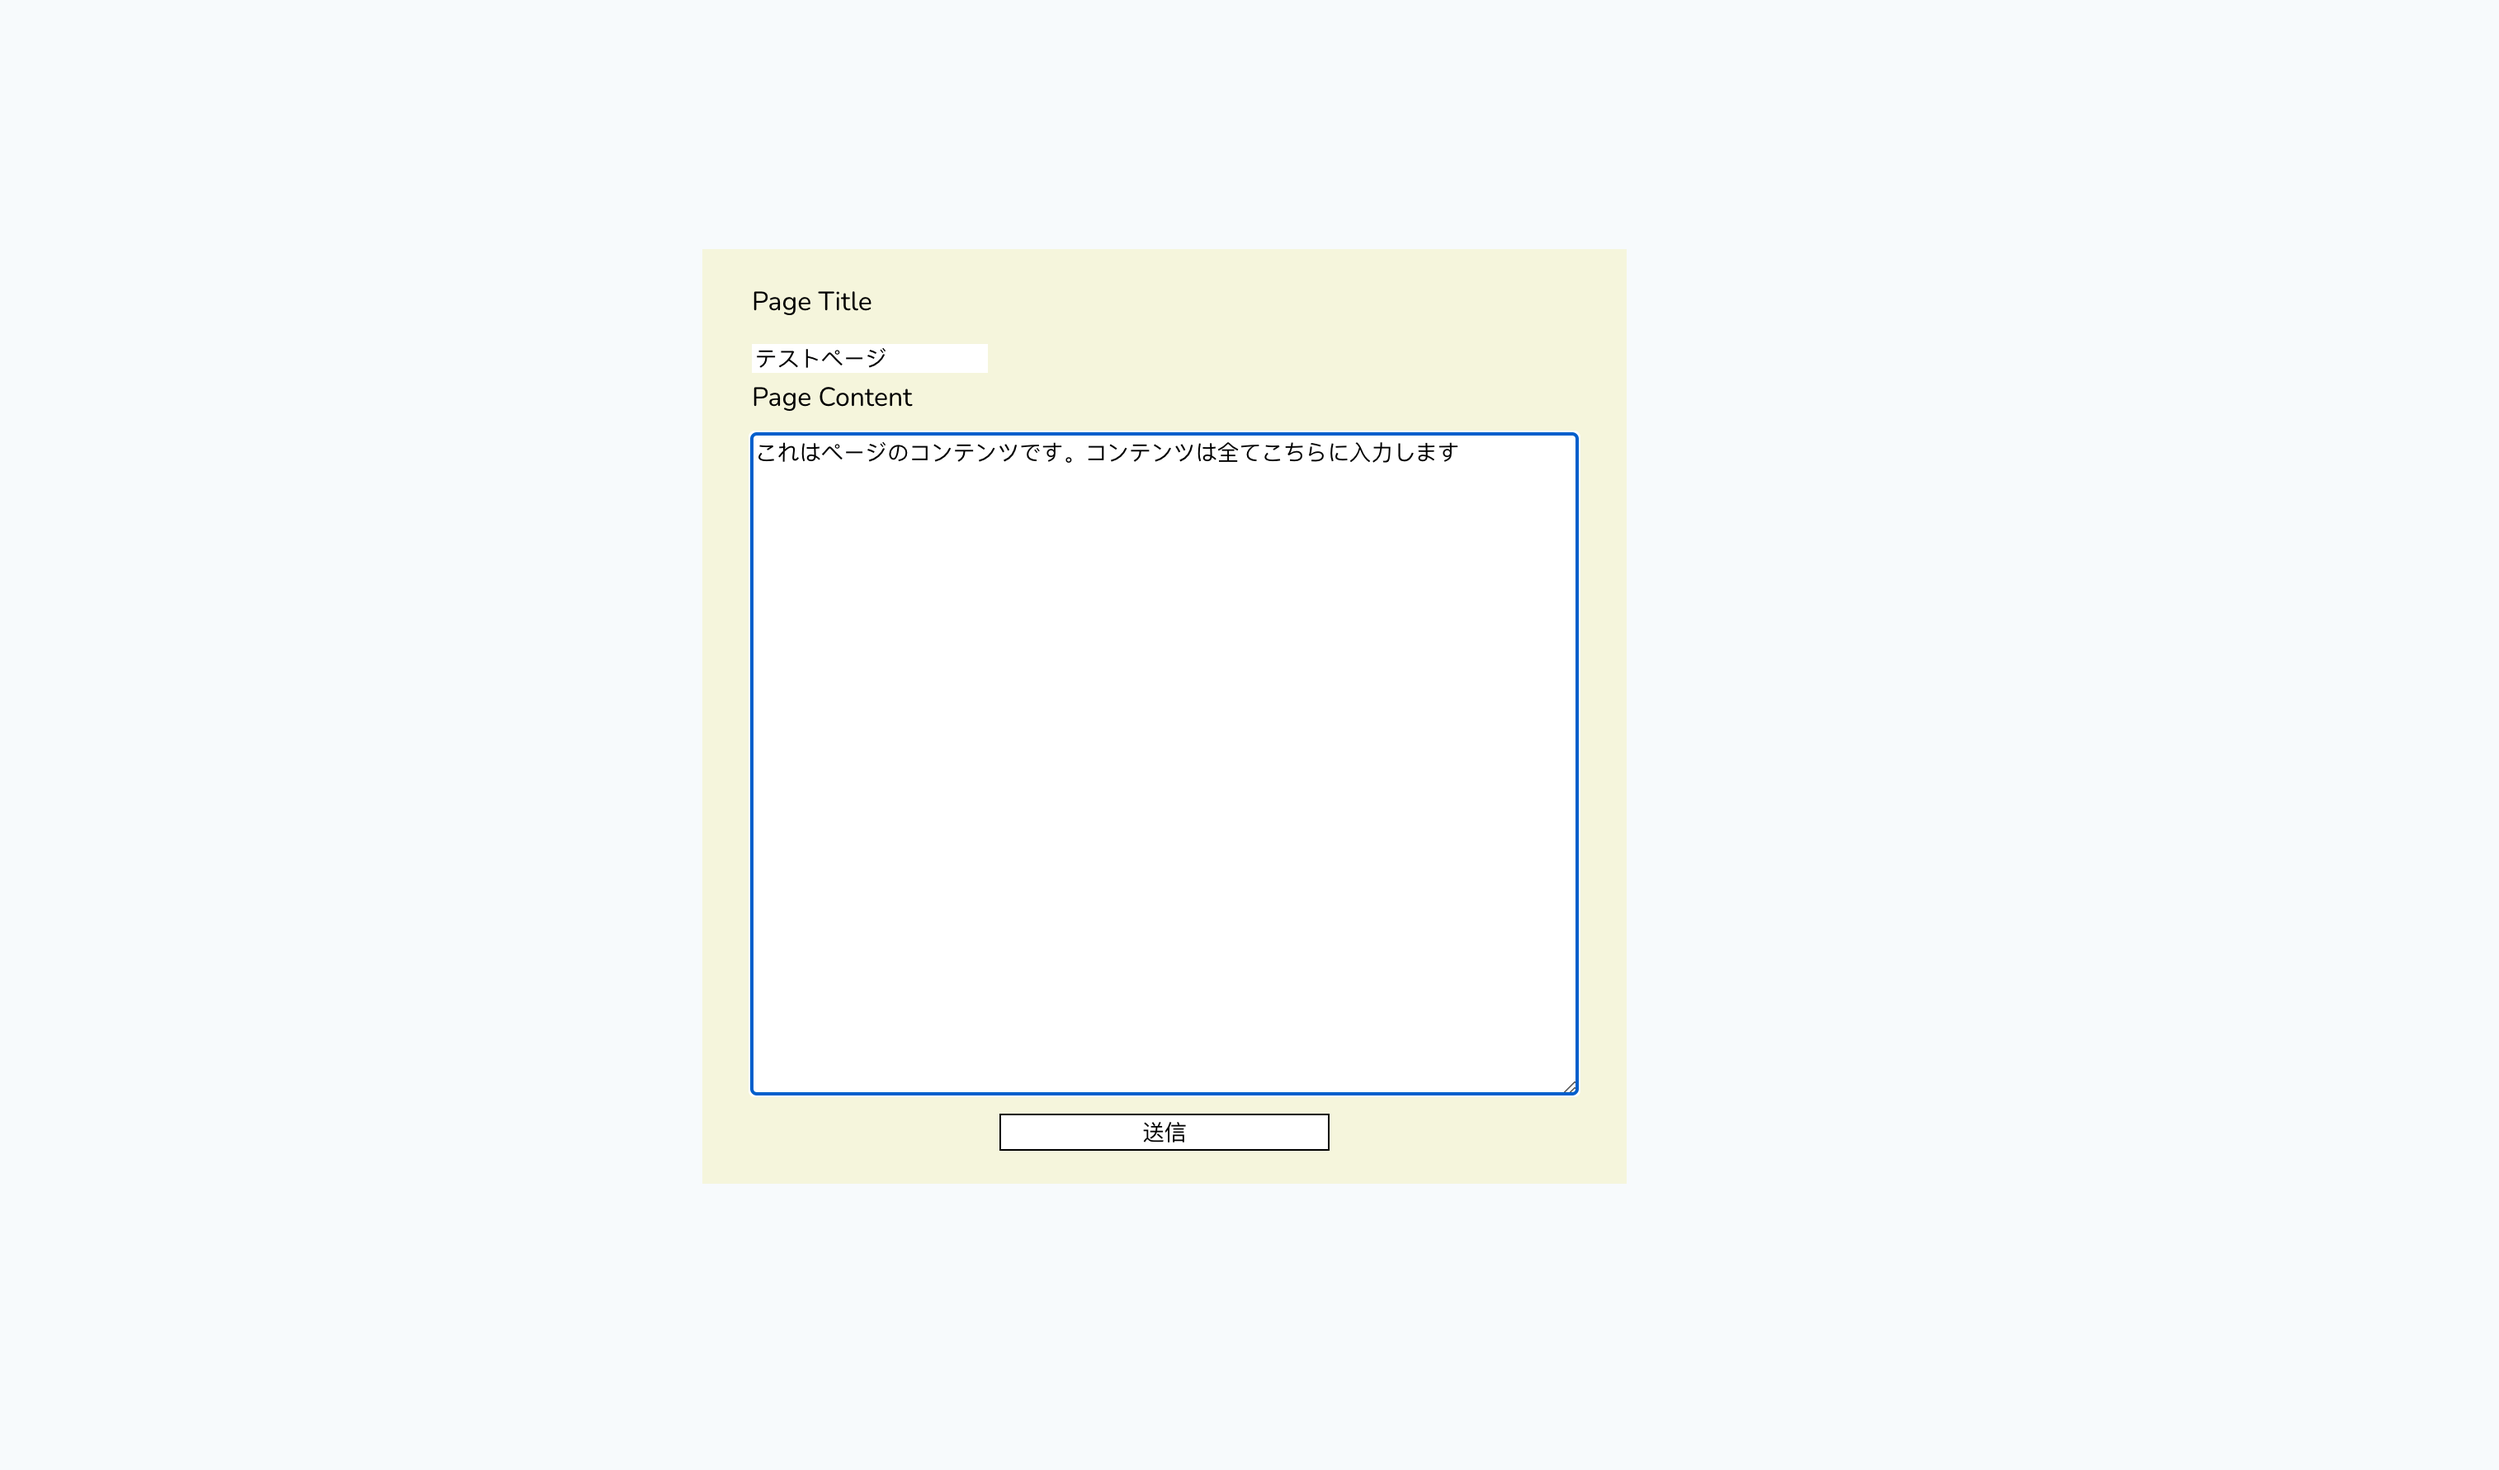
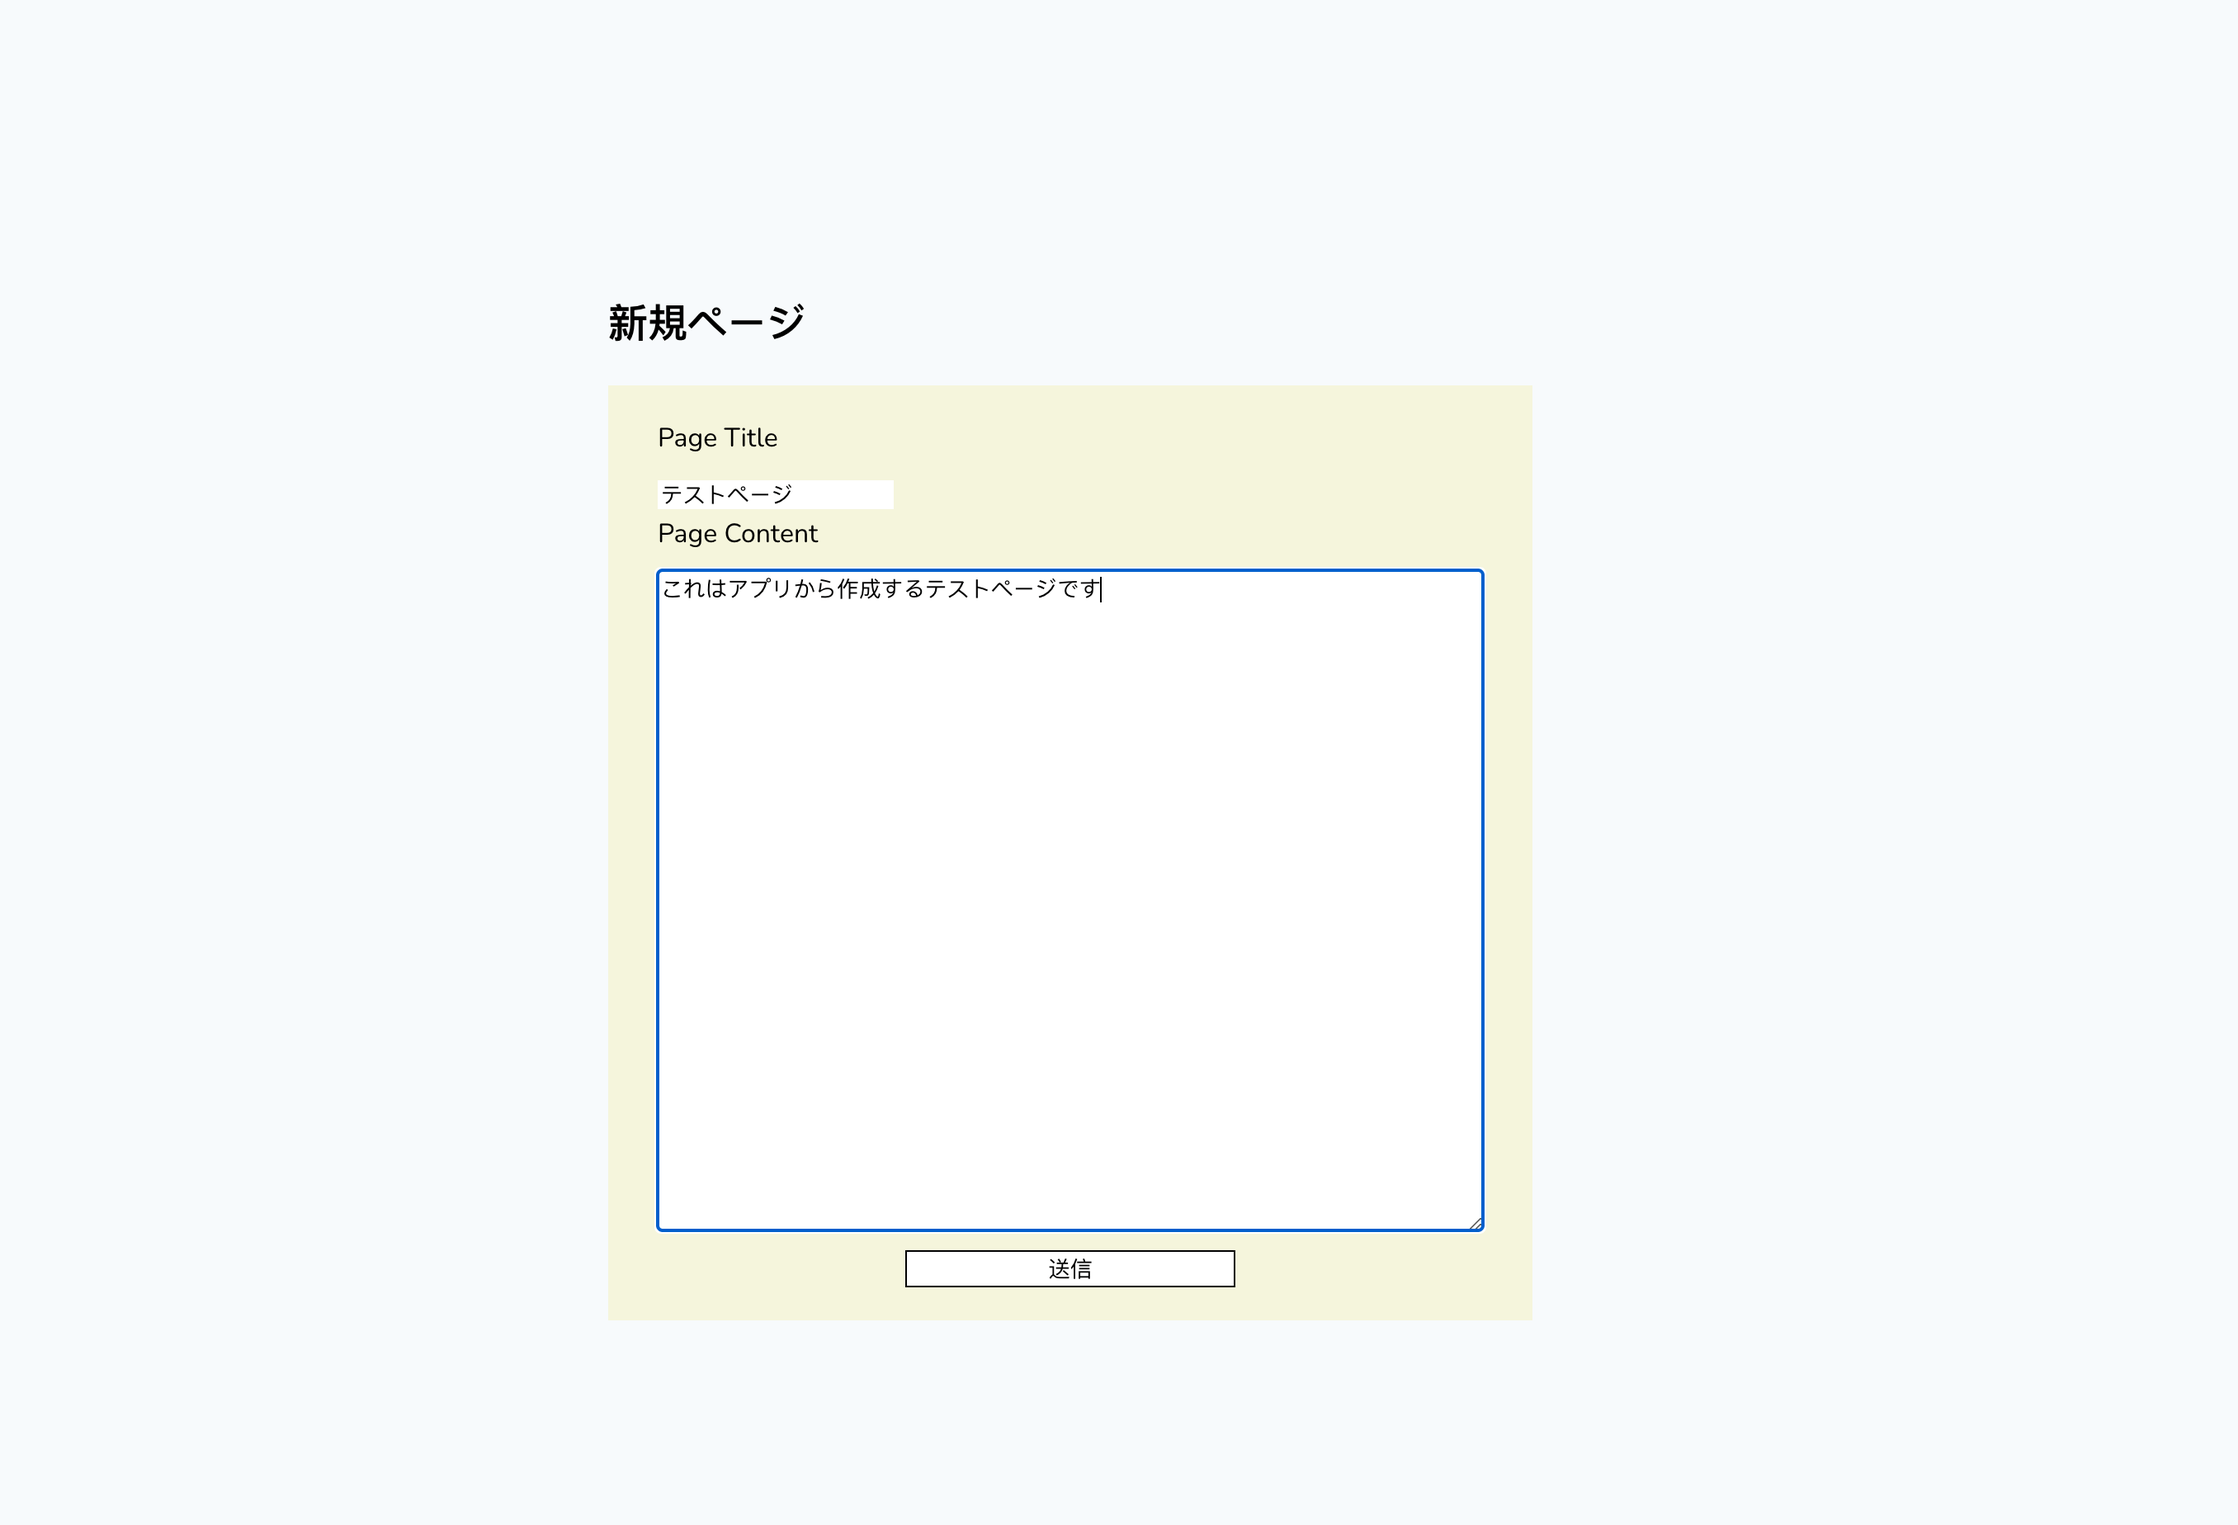
chore: 諸々変更

Changed region(s): [[0.2478, 0.1543, 0.7124, 0.8642]]

diff --git a/data/app/Http/Controllers/PageController.php b/data/app/Http/Controllers/PageController.php
@@ -2,8 +2,8 @@
 
 namespace App\Http\Controllers;
 
-use App\Models\CreatedPageLogs;
-use App\Models\Options;
+use App\Models\CreatedPageLog;
+use App\Models\Option;
 use Illuminate\Http\Request;
 use Illuminate\Support\Facades\Validator;
 use PHPShopify\ShopifySDK;
@@ -19,8 +19,8 @@ class PageController extends Controller
     {
         $this->validator($request->all())->validate();
 
-        $Options = new Options();
-        $accessToken = $Options->getAccessToken();
+        $Option = new Option();
+        $accessToken = $Option->getAccessToken();
 
         if (!$accessToken) {
             die('アクセストークンがありません');
@@ -38,7 +38,7 @@ class PageController extends Controller
 
         $pageArray = $Shopify->Page->post($pageInfo);
         if (is_array($pageArray)) {
-            CreatedPageLogs::create([
+            CreatedPageLog::create([
                 'title' => $pageArray['title'],
                 'page_id' => $pageArray['id'],
                 'shop_id' => $pageArray['shop_id'],
@@ -53,6 +53,43 @@ class PageController extends Controller
 
         return view('page.created', [
             'pageUrl' => 'https://' . config('app.shopUrl') . '/admin/pages/' . $pageArray['id']
+        ]);
+    }
+
+    public function list()
+    {
+        $pages = CreatedPageLog::all();
+
+        return view('page.list', [
+            'pages' => $pages
+        ]);
+    }
+
+    public function edit(string $pageId = '')
+    {
+        $castPageId = (int)$pageId;
+
+        $PageLogs = CreatedPageLog::where('page_id', $castPageId);
+        if ($PageLogs->doesntExist()) die('ページIDが不正です');
+
+        $Option = new Option();
+        $accessToken = $Option->getAccessToken();
+
+        if (!$accessToken) {
+            die('アクセストークンがありません');
+        }
+        $Shopify = new ShopifySDK([
+            'ShopUrl' => config('app.shopUrl'),
+            'AccessToken' => $accessToken
+        ]);
+
+        /**
+         * @returns array
+        */
+        $pageArray = $Shopify->Page($castPageId)->get();
+
+        return view('page.edit', [
+            'page' => $pageArray
         ]);
     }
 

diff --git a/data/app/Http/Controllers/AuthRedirectController.php b/data/app/Http/Controllers/AuthRedirectController.php
@@ -2,7 +2,7 @@
 
 namespace App\Http\Controllers;
 
-use App\Models\Options;
+use App\Models\Option;
 use Illuminate\Http\Request;
 use Illuminate\Support\Facades\DB;
 use Illuminate\Support\Facades\Http;
@@ -30,11 +30,11 @@ class AuthRedirectController extends Controller
         /**
          * アプリの再インストール等に対応するため、アクセストークンは再登録させるようにする
          */
-        Options::reset();
+        Option::reset();
         DB::beginTransaction();
         try {
             if (!isset($accessToken)) throw new \Exception('トークンを取得できませんでした');
-            Options::create([
+            Option::create([
                 'access_token' => $accessToken
             ]);
             DB::commit();

diff --git a/data/app/Http/Controllers/ContentController.php b/data/app/Http/Controllers/ContentController.php
@@ -231,8 +231,12 @@ HTML
 '
                 ],
                 [
-                    'title' => '',
-                    'content' => ''
+                    'title' => 'アプリから作成したページを編集する',
+                    'content' => '
+                    先ほど作成したページを編集してみましょう。<br>
+                    作成したページの<a href="' . route('page.list') . '">一覧ページ</a>にアクセスしてください。<br>
+                    <img src="/storage/images/step2-img1.png" alt="" /><br><br>
+                    '
                 ]
             ]
         ]);

diff --git a/data/routes/web.php b/data/routes/web.php
@@ -23,4 +23,6 @@ Route::get('authRedirect', 'App\Http\Controllers\AuthRedirectController@index');
 Route::group(['prefix' => 'page', 'as' => 'page.'], function () {
     Route::get('create', 'App\Http\Controllers\PageController@create')->name('create');
     Route::post('new', 'App\Http\Controllers\PageController@new')->name('new');
+    Route::get('list', 'App\Http\Controllers\PageController@list')->name('list');
+    Route::get('{pageId}/edit', 'App\Http\Controllers\PageController@edit')->name('edit');
 });

diff --git a/data/database/migrations/2022_04_20_012140_create_created_page_logs_table.php b/data/database/migrations/2022_04_20_012140_create_created_page_logs_table.php
@@ -4,7 +4,7 @@ use Illuminate\Database\Migrations\Migration;
 use Illuminate\Database\Schema\Blueprint;
 use Illuminate\Support\Facades\Schema;
 
-class CreateCreatedPageLogsTable extends Migration
+class CreateCreatedPageLogTable extends Migration
 {
     /**
      * Run the migrations.

diff --git a/data/app/Models/CreatedPageLog.php b/data/app/Models/CreatedPageLog.php
@@ -5,7 +5,7 @@ namespace App\Models;
 use Illuminate\Database\Eloquent\Factories\HasFactory;
 use Illuminate\Database\Eloquent\Model;
 
-class CreatedPageLogs extends Model
+class CreatedPageLog extends Model
 {
     use HasFactory;
 

diff --git a/data/app/Models/Option.php b/data/app/Models/Option.php
@@ -5,7 +5,7 @@ namespace App\Models;
 use Illuminate\Database\Eloquent\Factories\HasFactory;
 use Illuminate\Database\Eloquent\Model;
 
-class Options extends Model
+class Option extends Model
 {
     use HasFactory;
 

diff --git a/data/resources/views/page/create.blade.php b/data/resources/views/page/create.blade.php
@@ -1,4 +1,5 @@
 @include('header')
+<h2>新規ページ</h2>
 <form method="POST" action="{{ route('page.new') }}">
     @csrf
 
